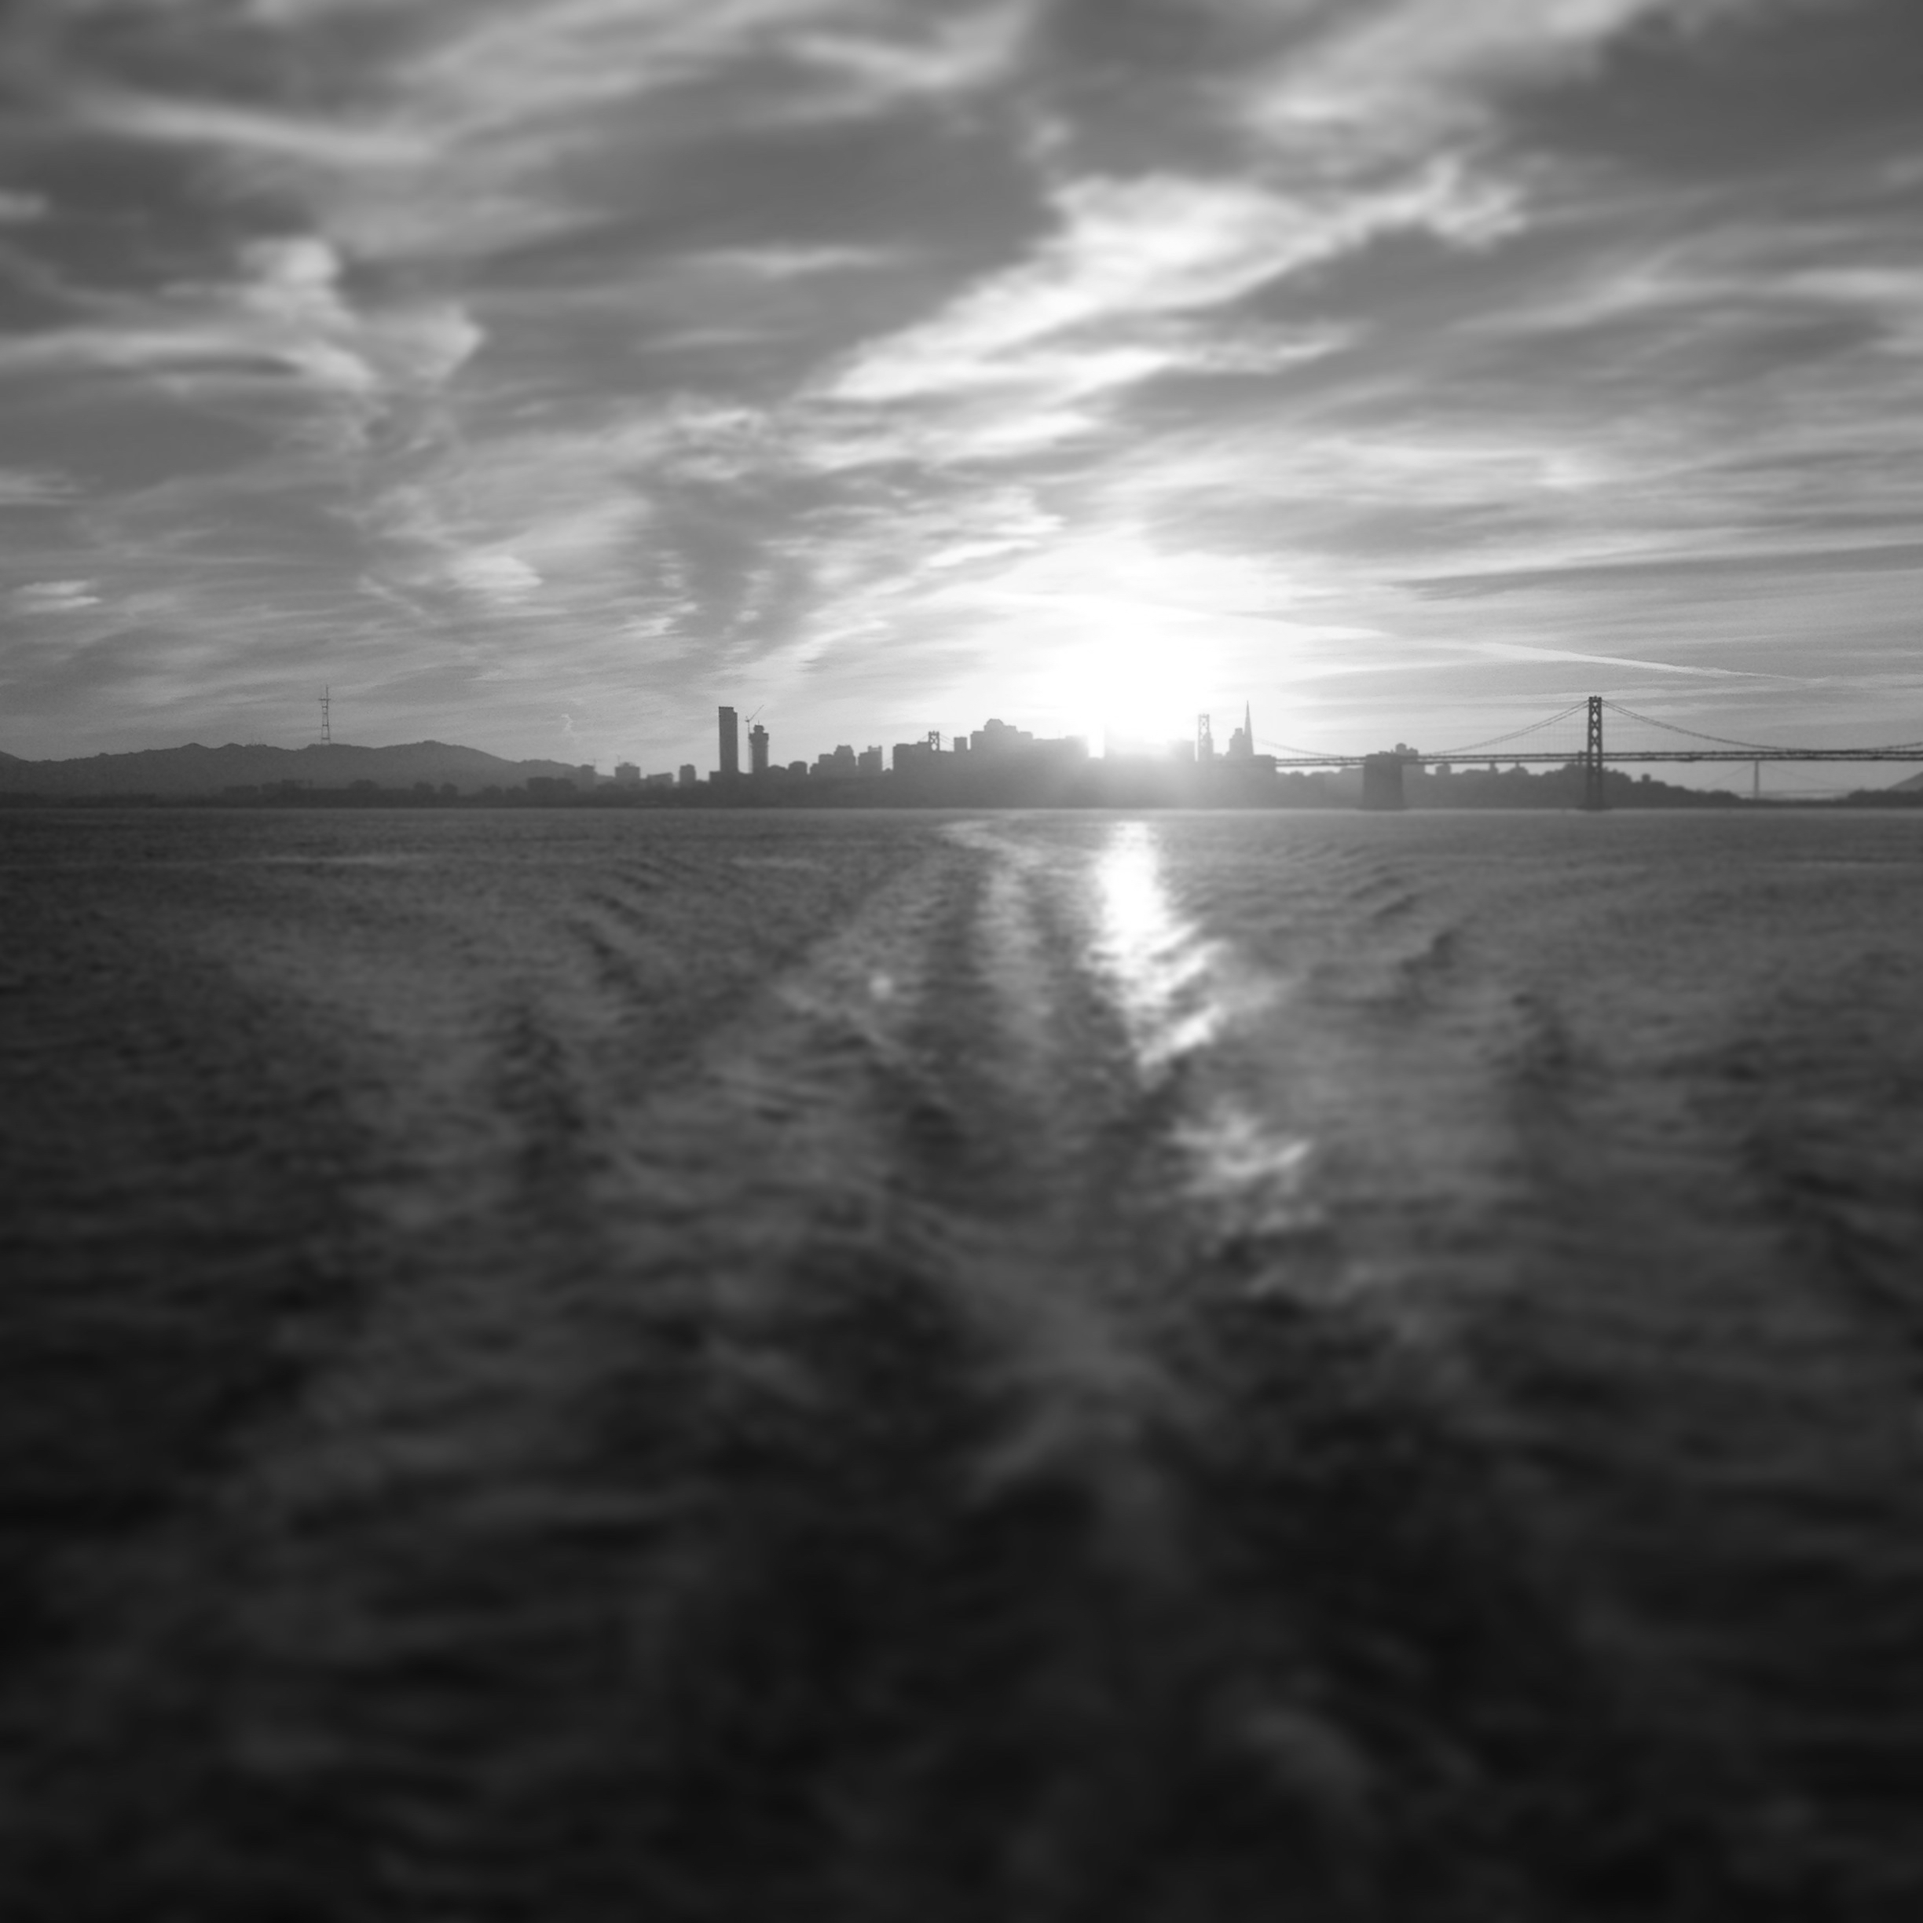
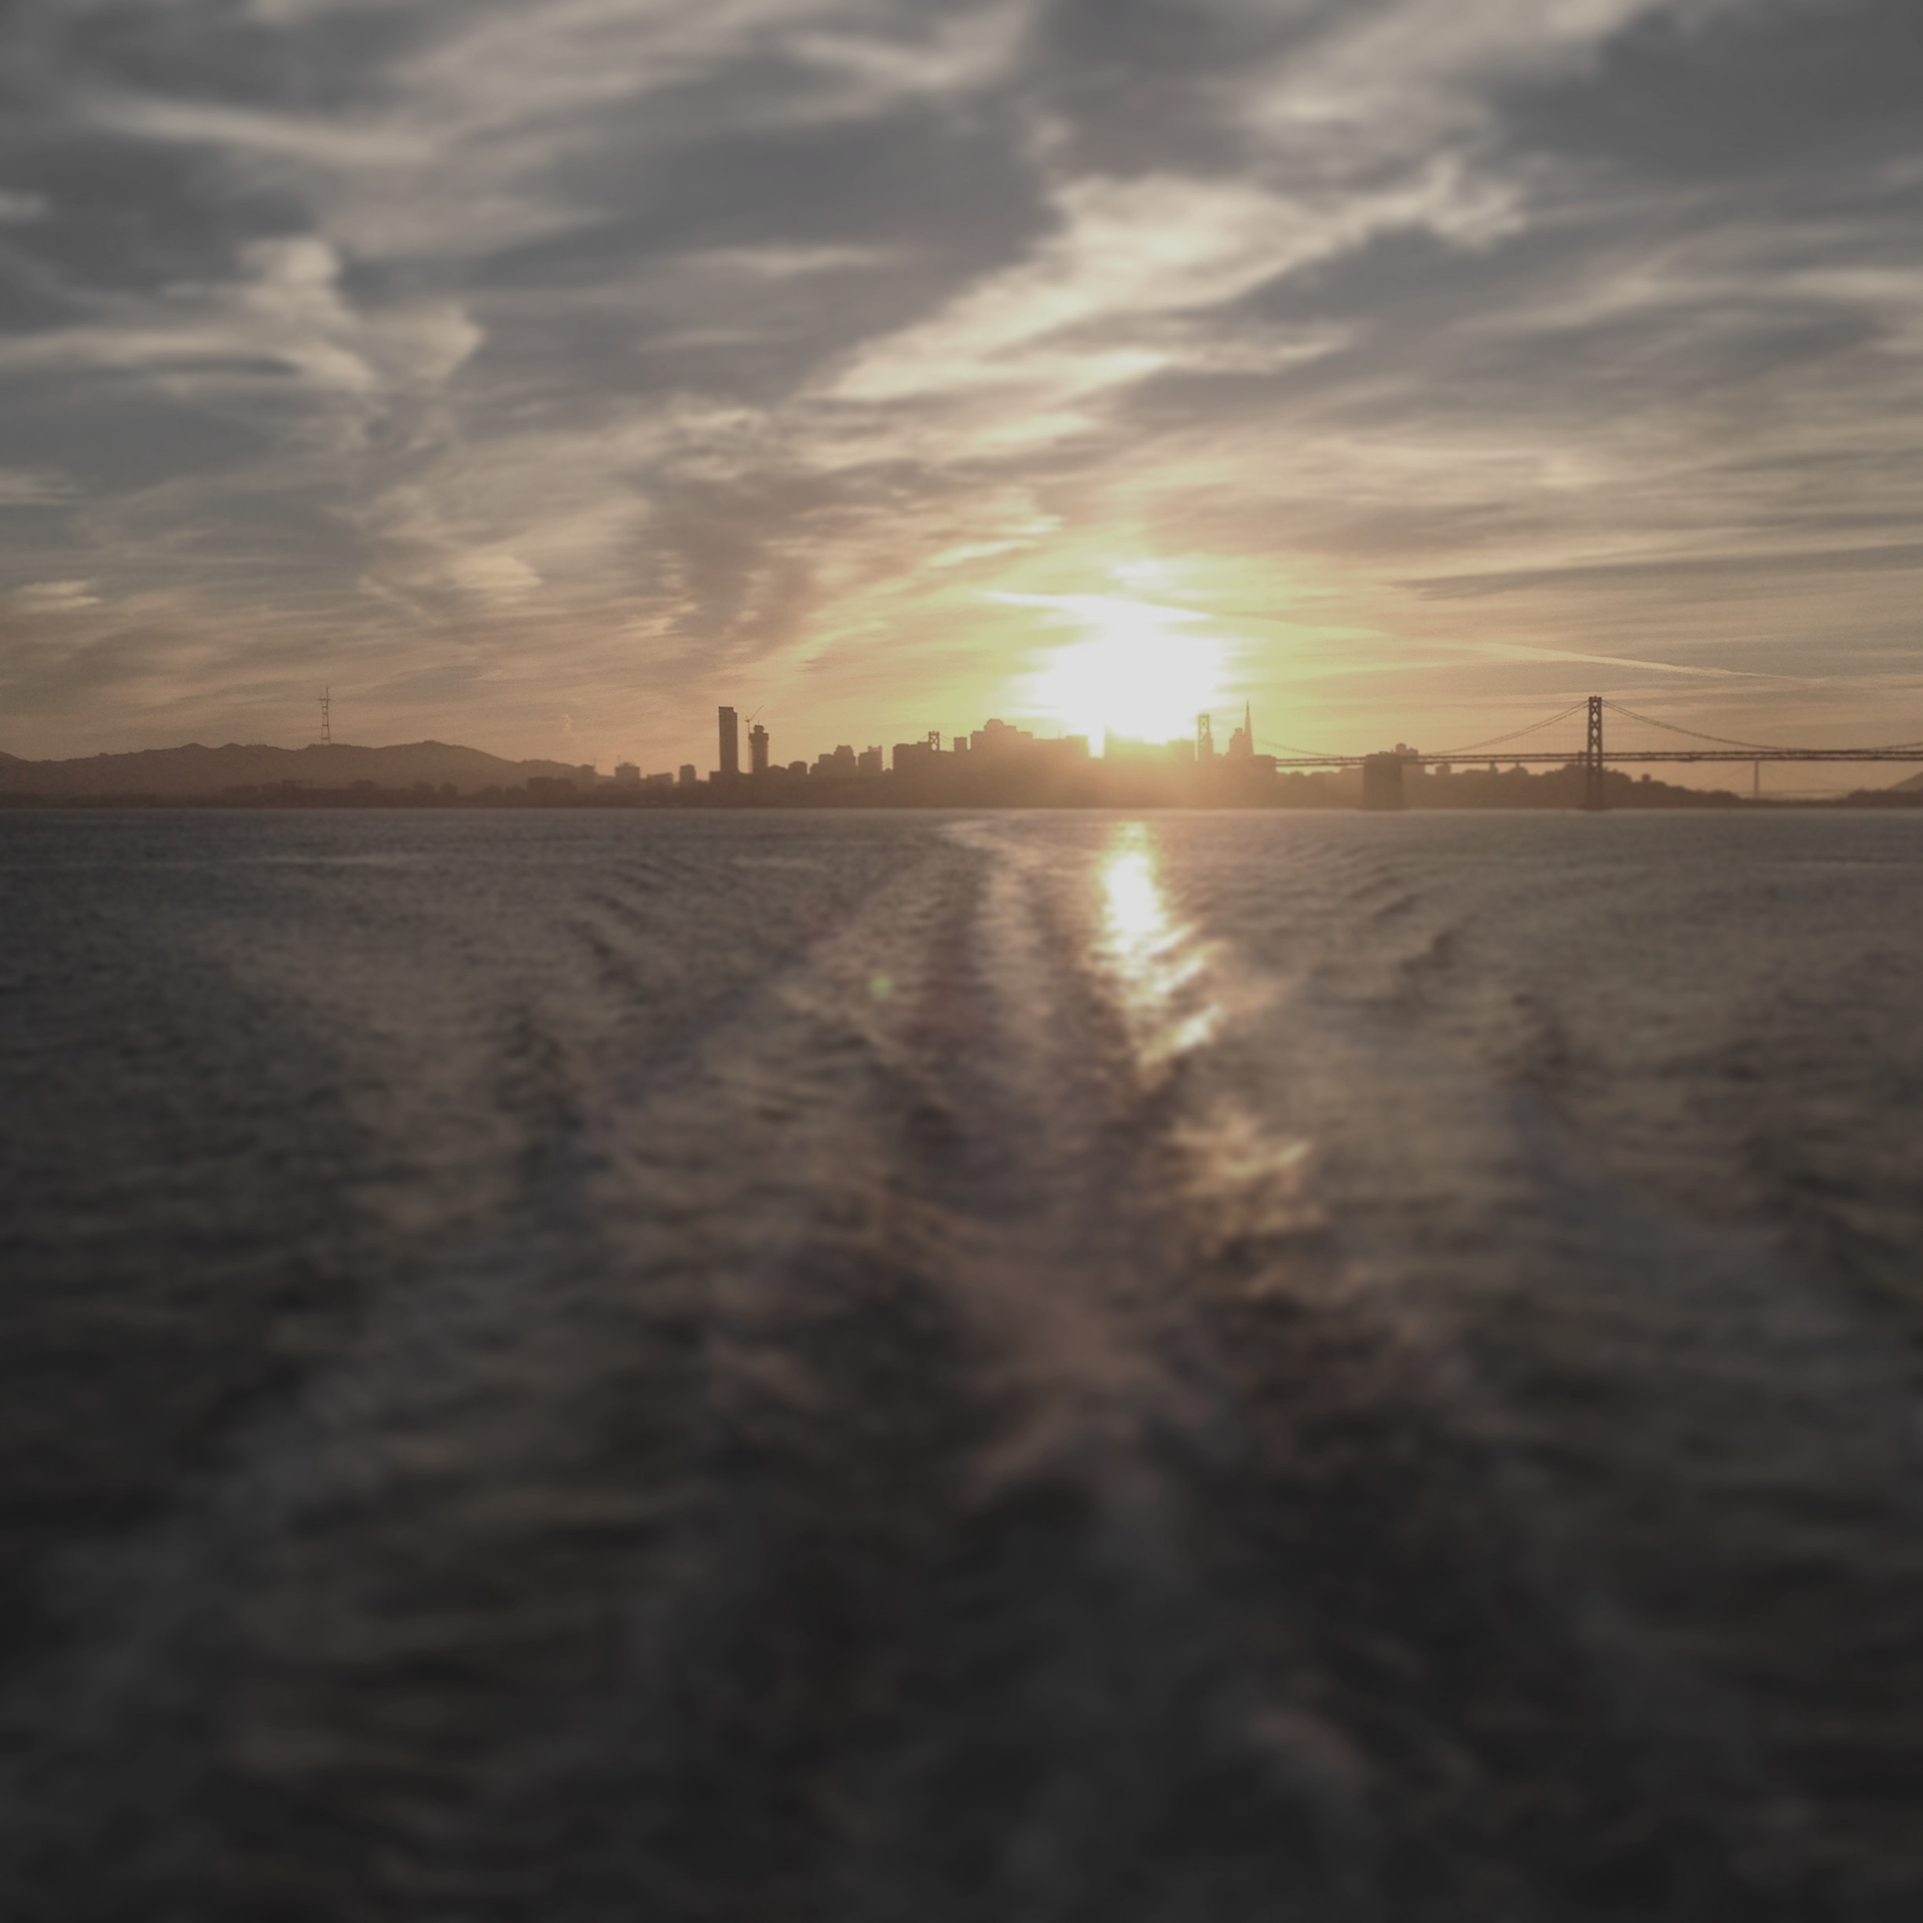
lots of styling changes, about and contact pages

Changed region(s): [[0.0, 0.0, 1.0, 0.652], [0.0931, 0.0, 0.5278, 0.1242], [0.4346, 0.4967, 0.4657, 0.5278]]

diff --git a/config/routes.rb b/config/routes.rb
@@ -5,6 +5,9 @@ Techseven::Application.routes.draw do
   # You can have the root of your site routed with "root"
   root 'static_pages#home'
 
+  match '/about', to: 'static_pages#about', via: 'get', as: 'about'
+  match '/contact', to: 'static_pages#contact', via: 'get', as: 'contact'
+  
   # Example of regular route:
   #   get 'products/:id' => 'catalog#view'
 

diff --git a/app/controllers/static_pages_controller.rb b/app/controllers/static_pages_controller.rb
@@ -1,4 +1,10 @@
 class StaticPagesController < ApplicationController
   def home
   end
+
+  def about
+  end
+
+  def contact
+  end
 end
